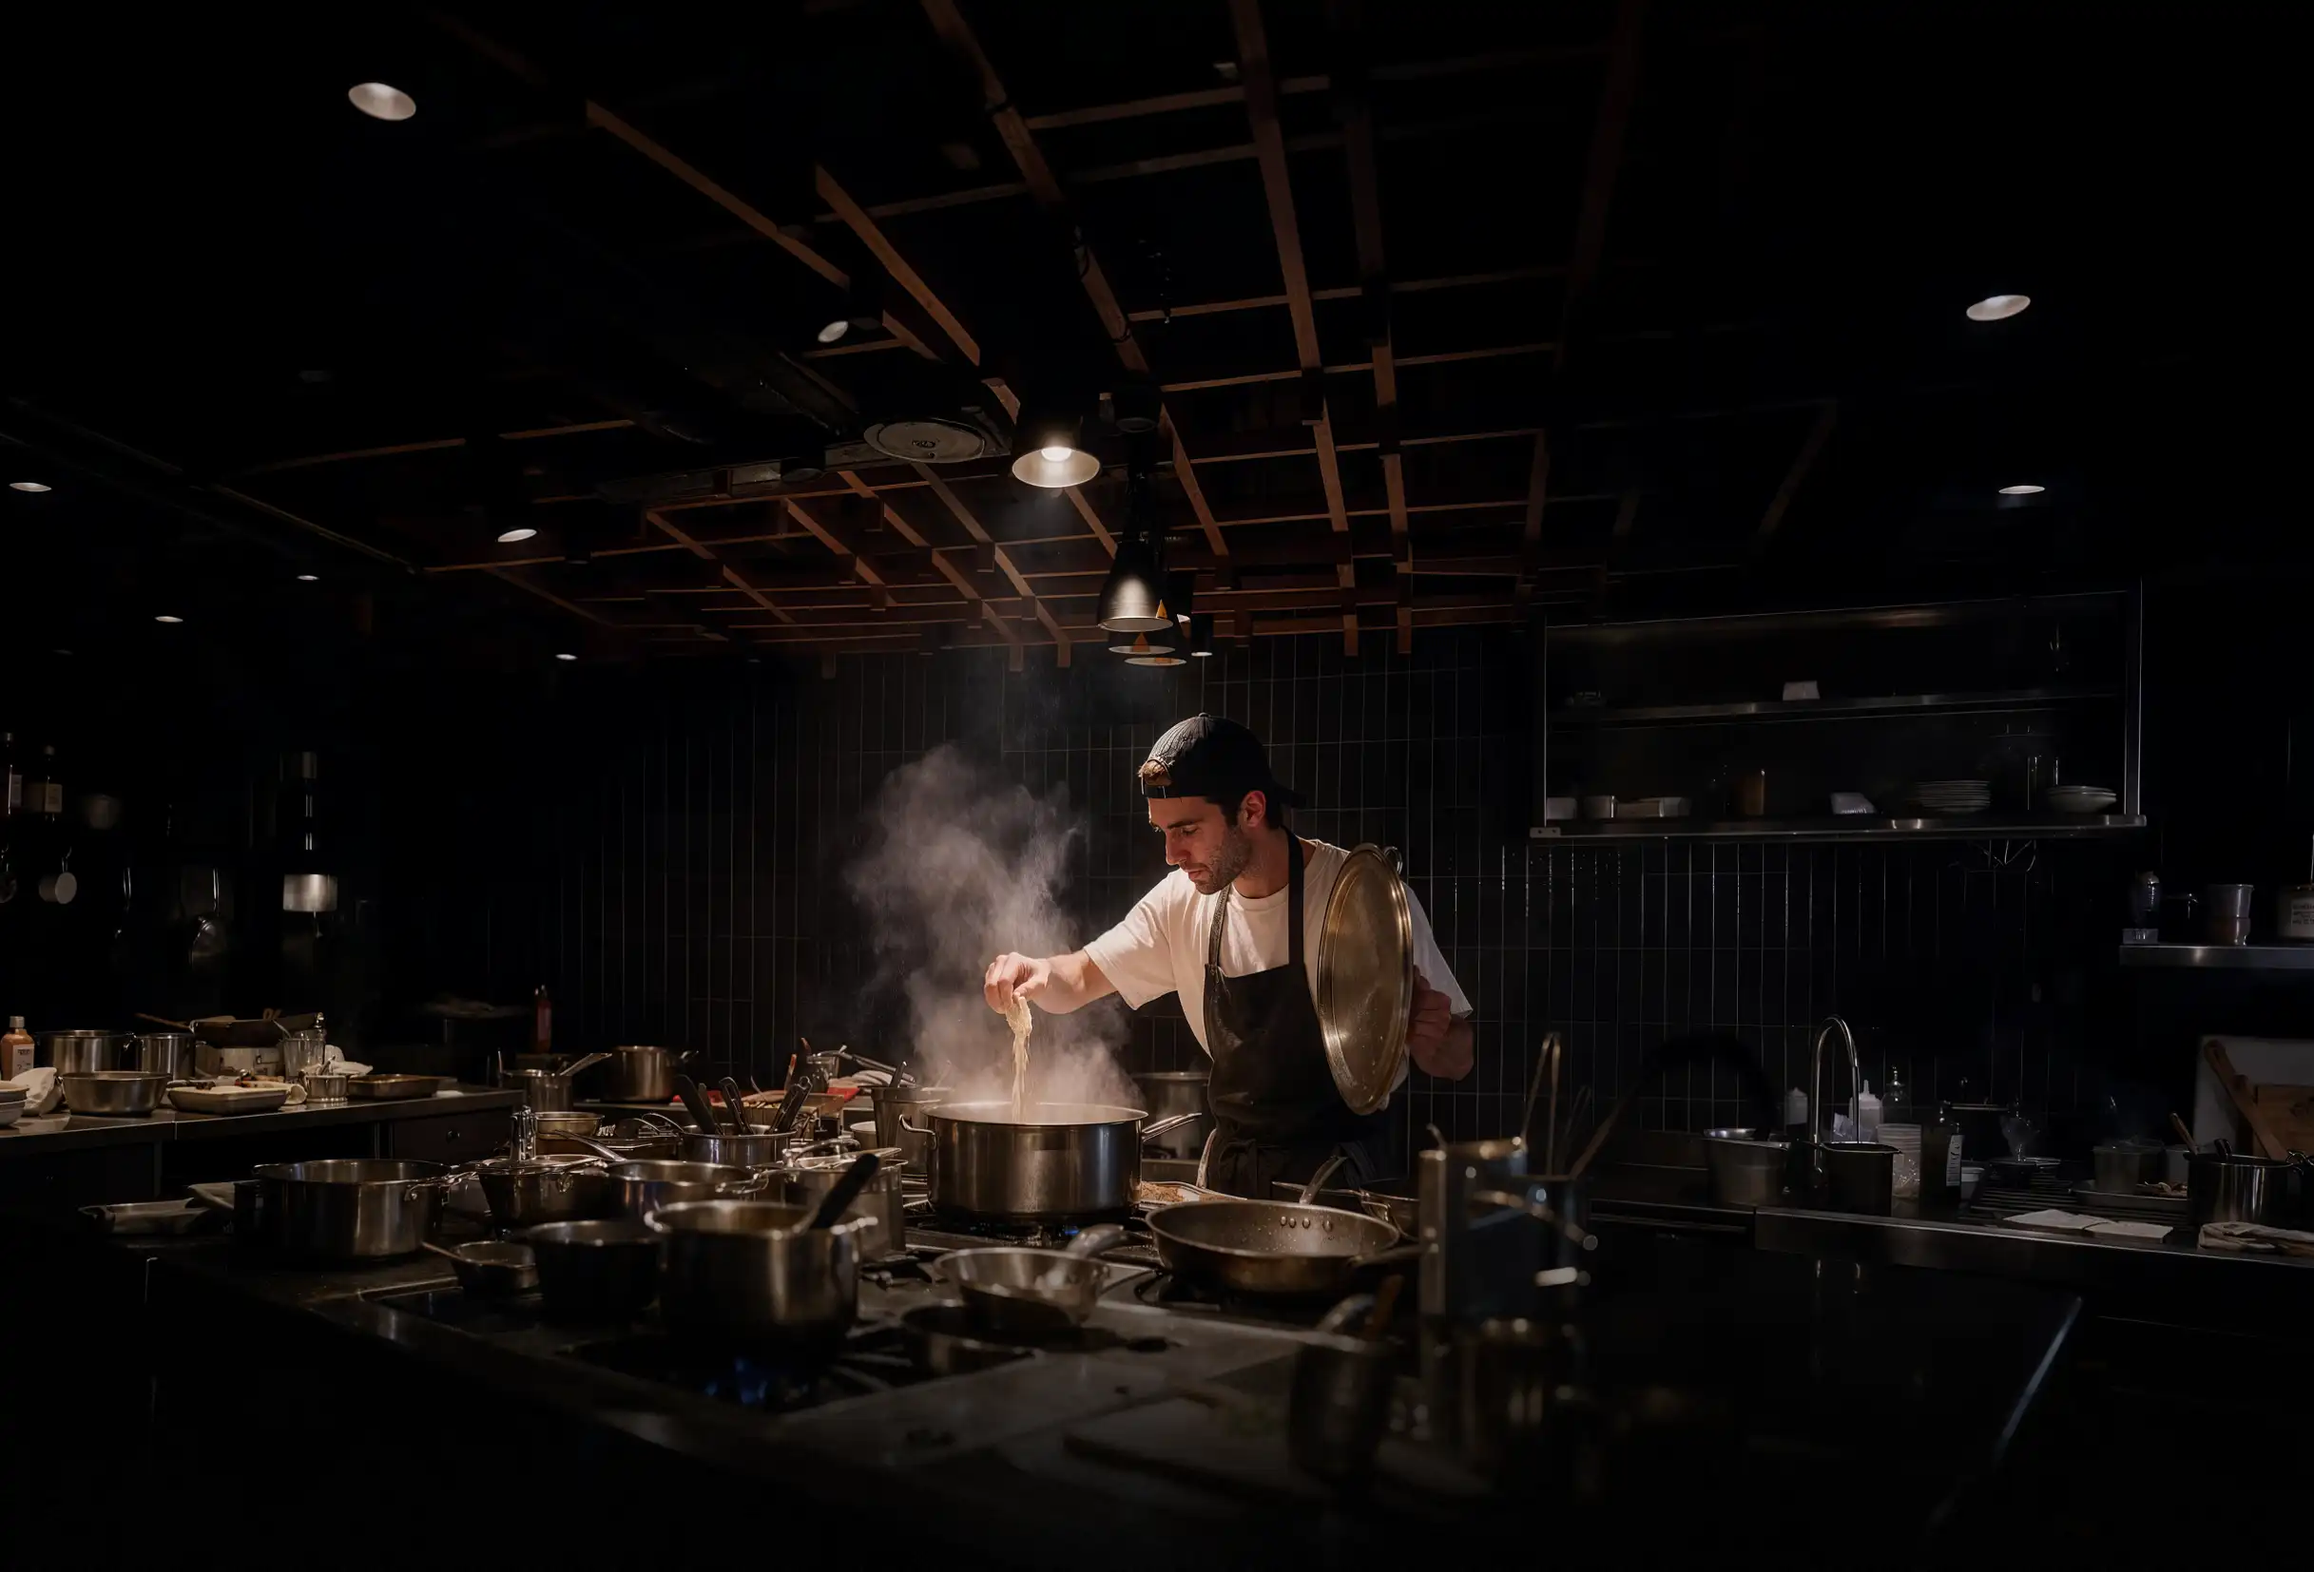
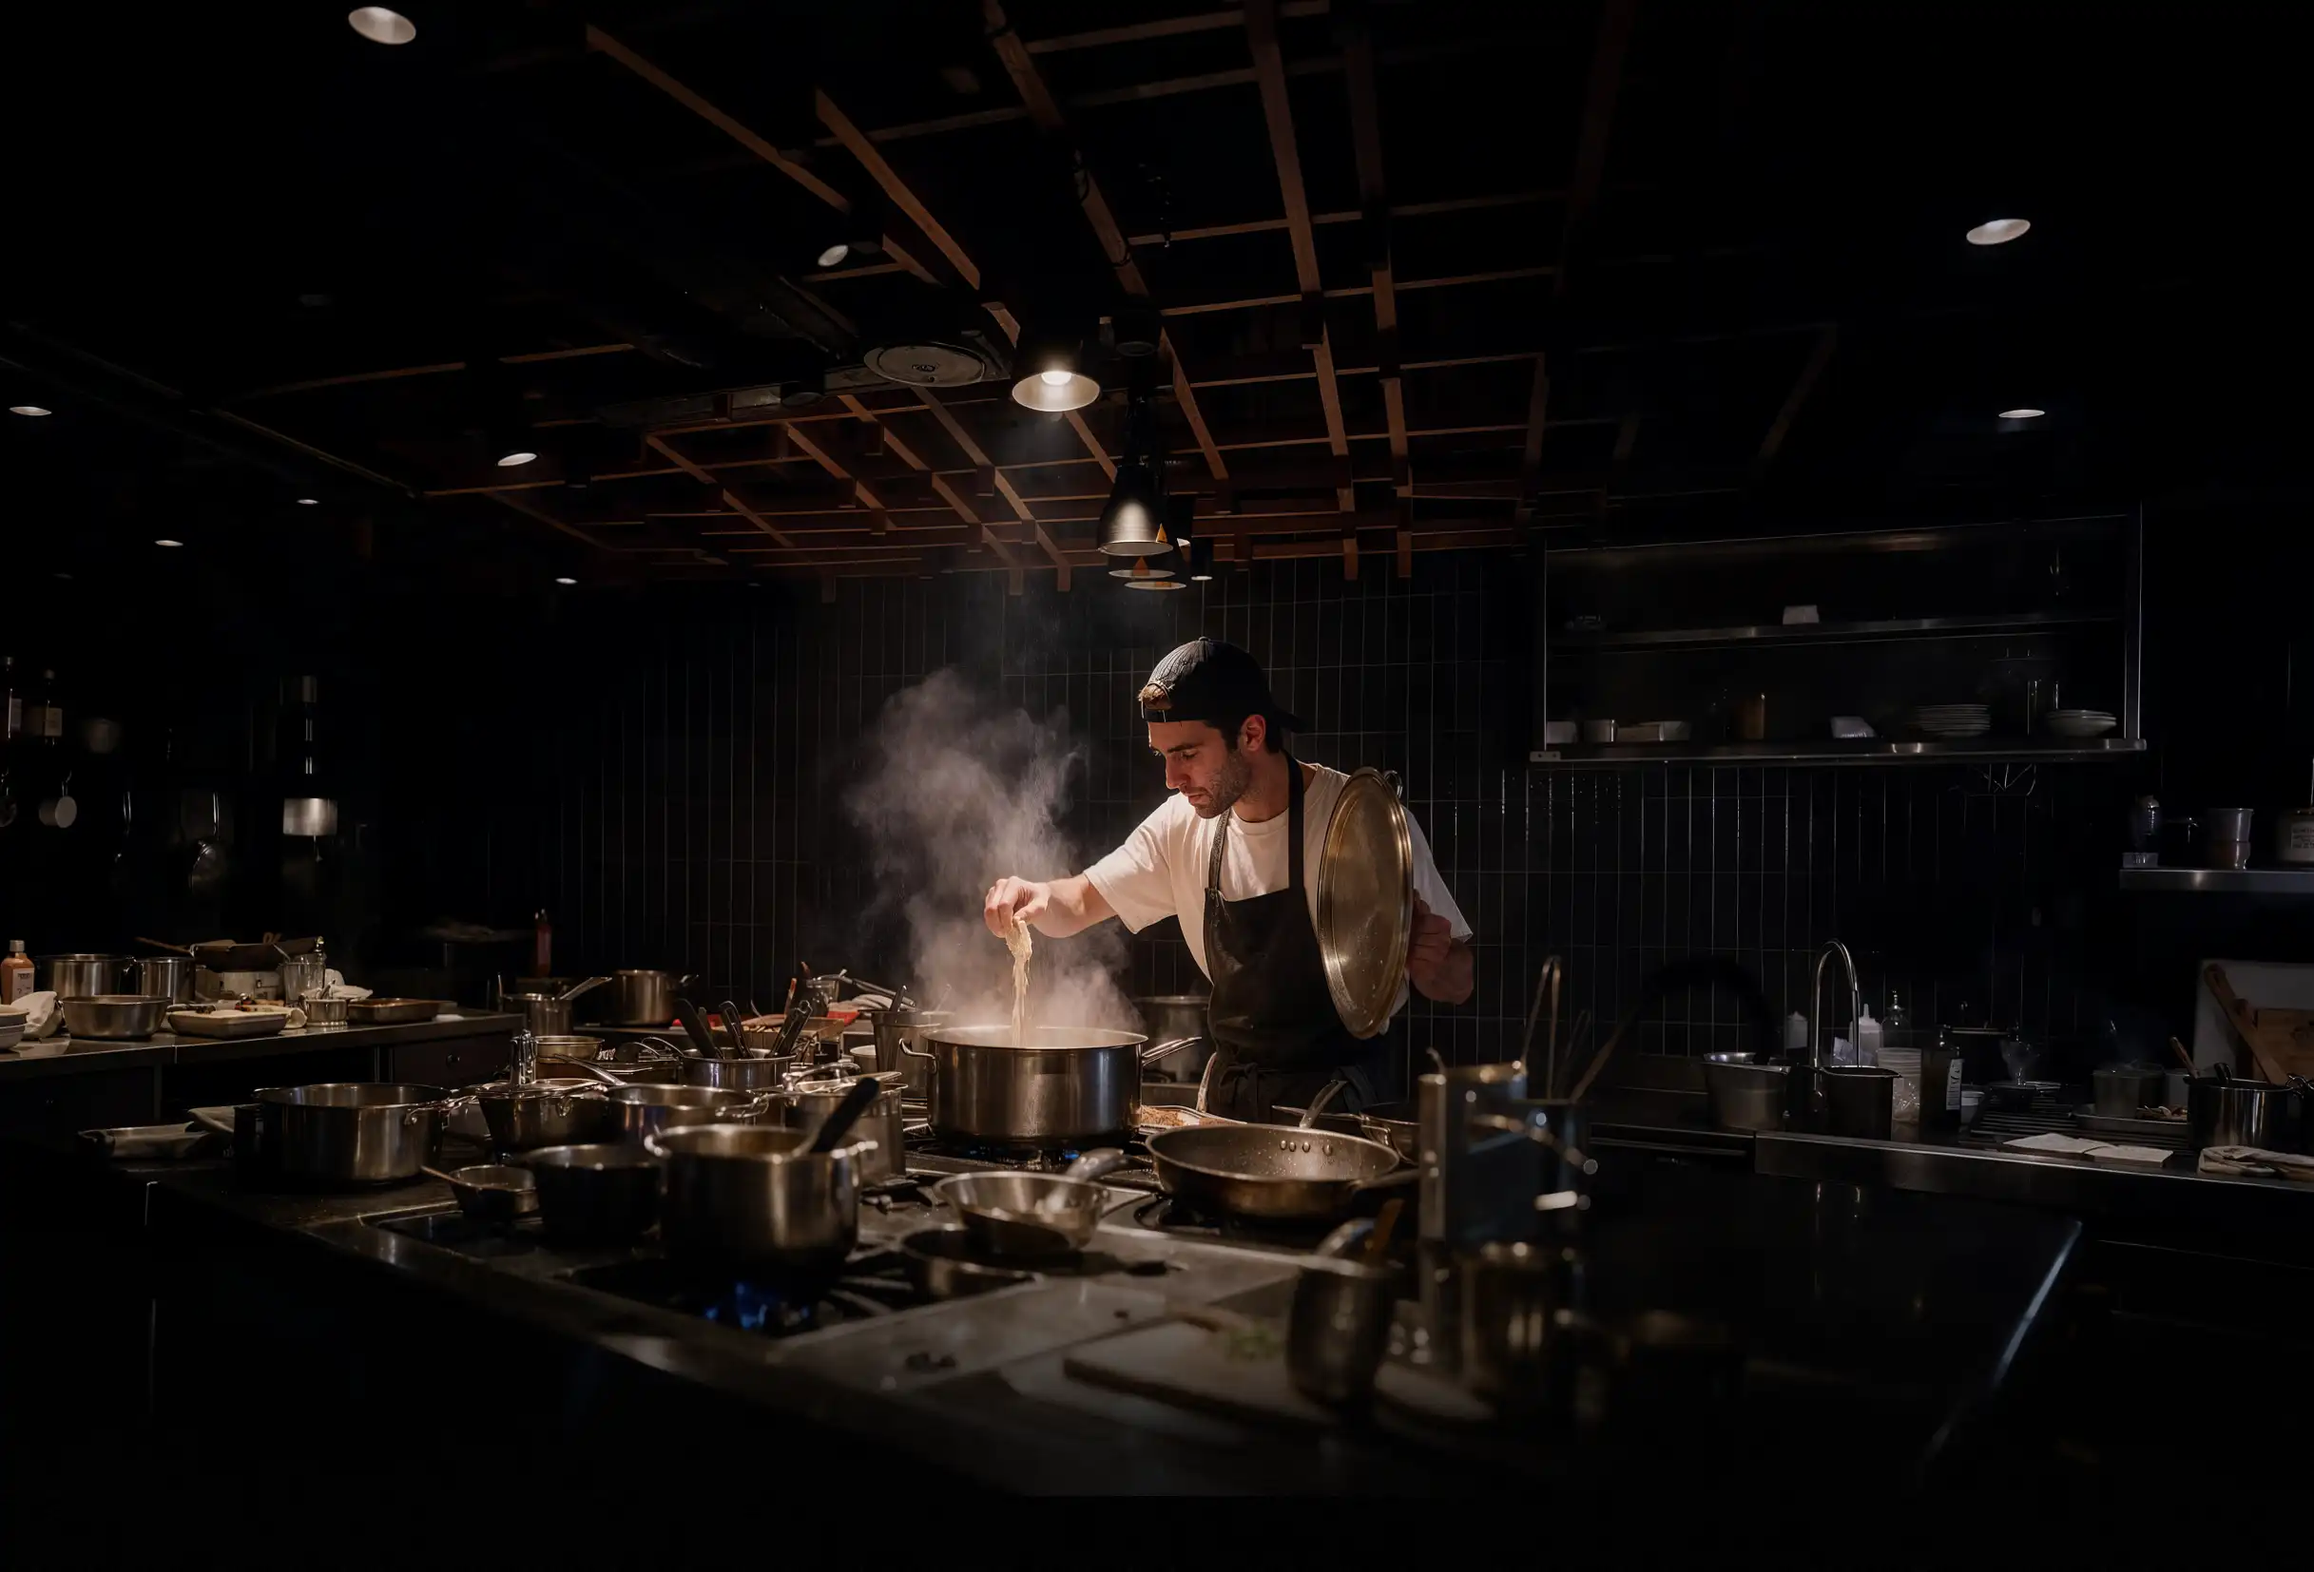
Mobile: shrink intro paragraph 20%, match services margins; refresh desktop hero
- .section-intro-copy: 32px -> 25.6px (-20%) below 767px.
- .section-services: left/right padding 78px -> 24px below 767px,
  matching .section-intro-copy's margin above it (was noticeably
  narrower before).
- Updated desktop hero image to the latest Squad-Chef-Desktop.webp
  (refined grade/lighting, same crop/dimensions).

diff --git a/app/globals.css b/app/globals.css
@@ -154,6 +154,12 @@ img { max-width: 100%; display: block; }
   line-height: 1.275;
   text-align: center;
 }
+@media (max-width: 767px) {
+  .section-intro-copy {
+    /* 20% smaller on mobile: 32px * 0.8 */
+    font-size: 25.6px;
+  }
+}
 /* Services section (Figma node 117:1315) */
 .section-services {
   background: var(--brand-sand);
@@ -191,6 +197,14 @@ img { max-width: 100%; display: block; }
   .services-grid {
     grid-template-columns: 1fr;
     gap: 40px;
+  }
+}
+@media (max-width: 767px) {
+  /* Match .section-intro-copy's left/right margin (24px) above it —
+     was 78px, noticeably narrower than the intro paragraph. */
+  .section-services {
+    padding-left: 24px;
+    padding-right: 24px;
   }
 }
 

diff --git a/BRAND.md b/BRAND.md
@@ -63,7 +63,7 @@ Nine icons representing Squad's offerings, saved as-is from the desktop into [`p
 
 Hero photo, source `Squad-Chef-Large-RGB.webp` (chef in a dark restaurant kitchen, lifting a lid off a steaming pot beside an open flame, replaced 2026-09-22) — cropped per breakpoint from the same source image so the same photo is consistent across all three:
 
-- [`public/images/squad-image_Chef.webp`](public/images/squad-image_Chef.webp) — desktop, client-supplied crop `Squad-Chef-Desktop.webp`, 2434×1654, replaced 2026-09-27
+- [`public/images/squad-image_Chef.webp`](public/images/squad-image_Chef.webp) — desktop, client-supplied crop `Squad-Chef-Desktop.webp`, 2434×1654, replaced 2026-09-27 (second replacement same day — refined grade/lighting, supersedes the earlier version from that day)
 - [`public/images/hero-tablet.webp`](public/images/hero-tablet.webp) — tablet, 1200×500 (banner) — unchanged
 - [`public/images/hero-mobile.webp`](public/images/hero-mobile.webp) — mobile, client-supplied crop `Squad-Chef-Mobile.webp`, 1080×1350 (4:5 portrait), replaced 2026-09-27 (second replacement same day — supersedes the version from earlier that day)
 
